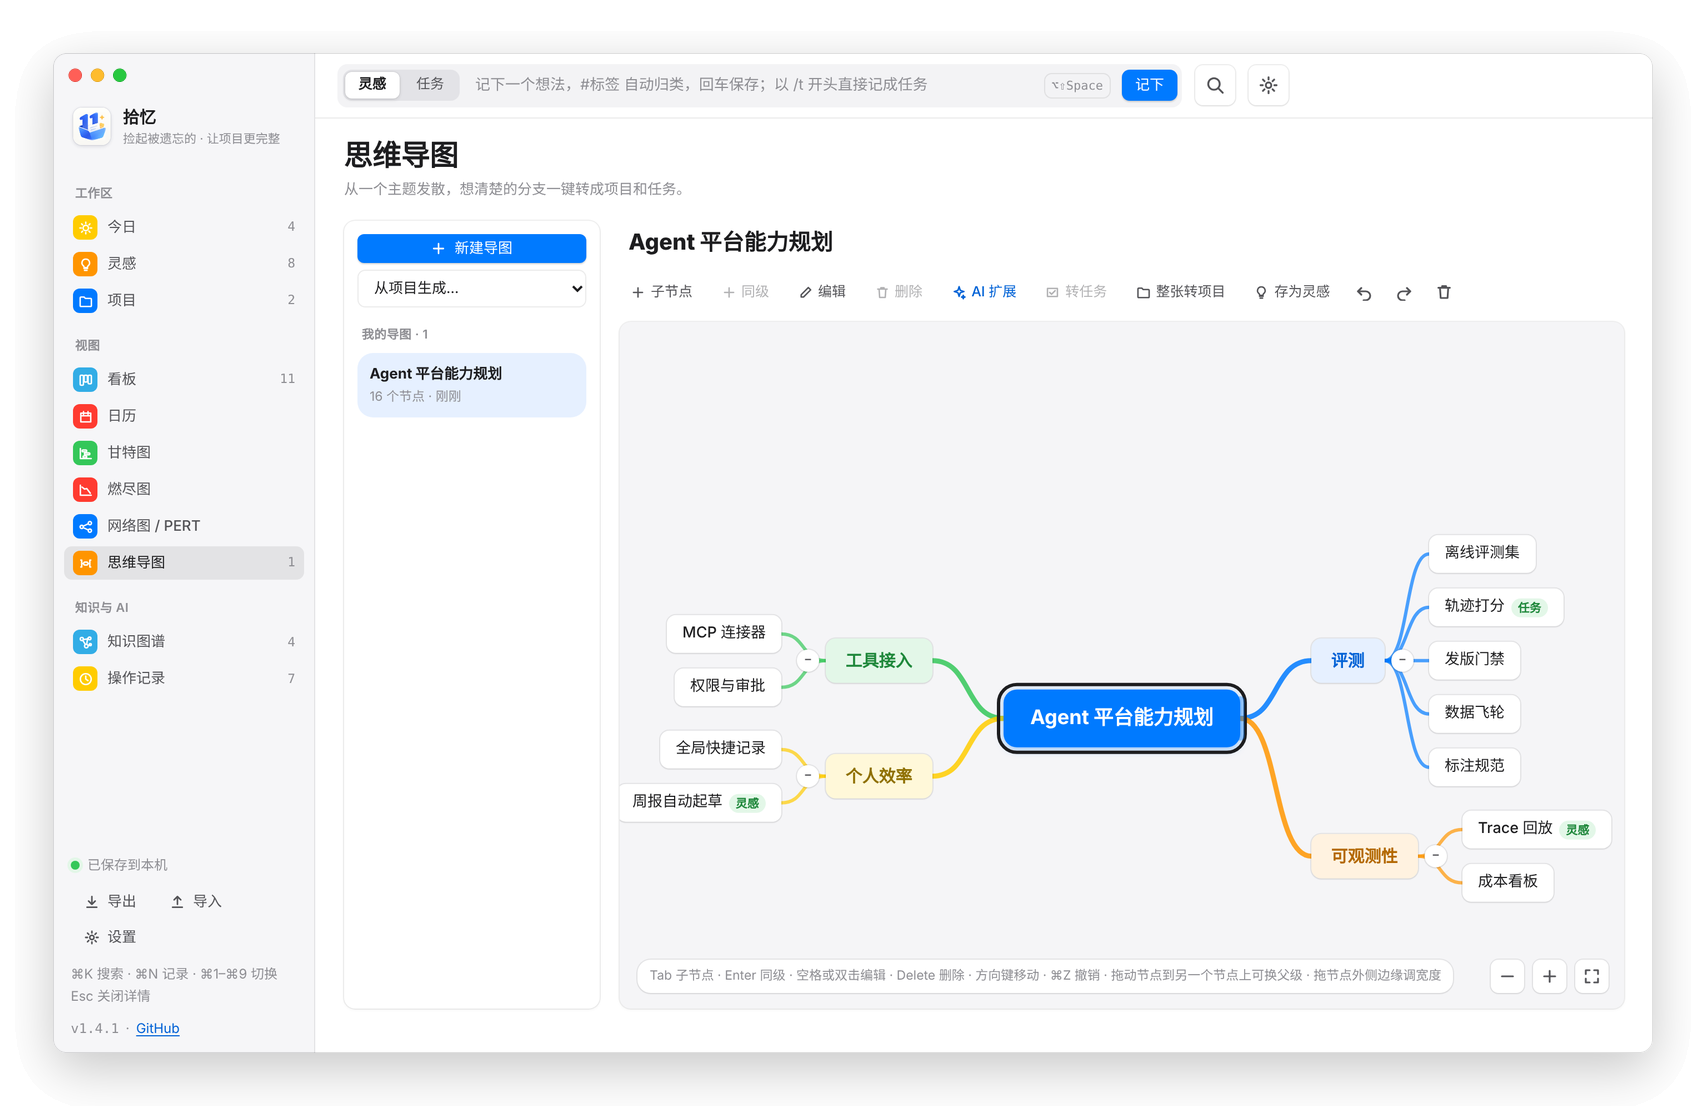
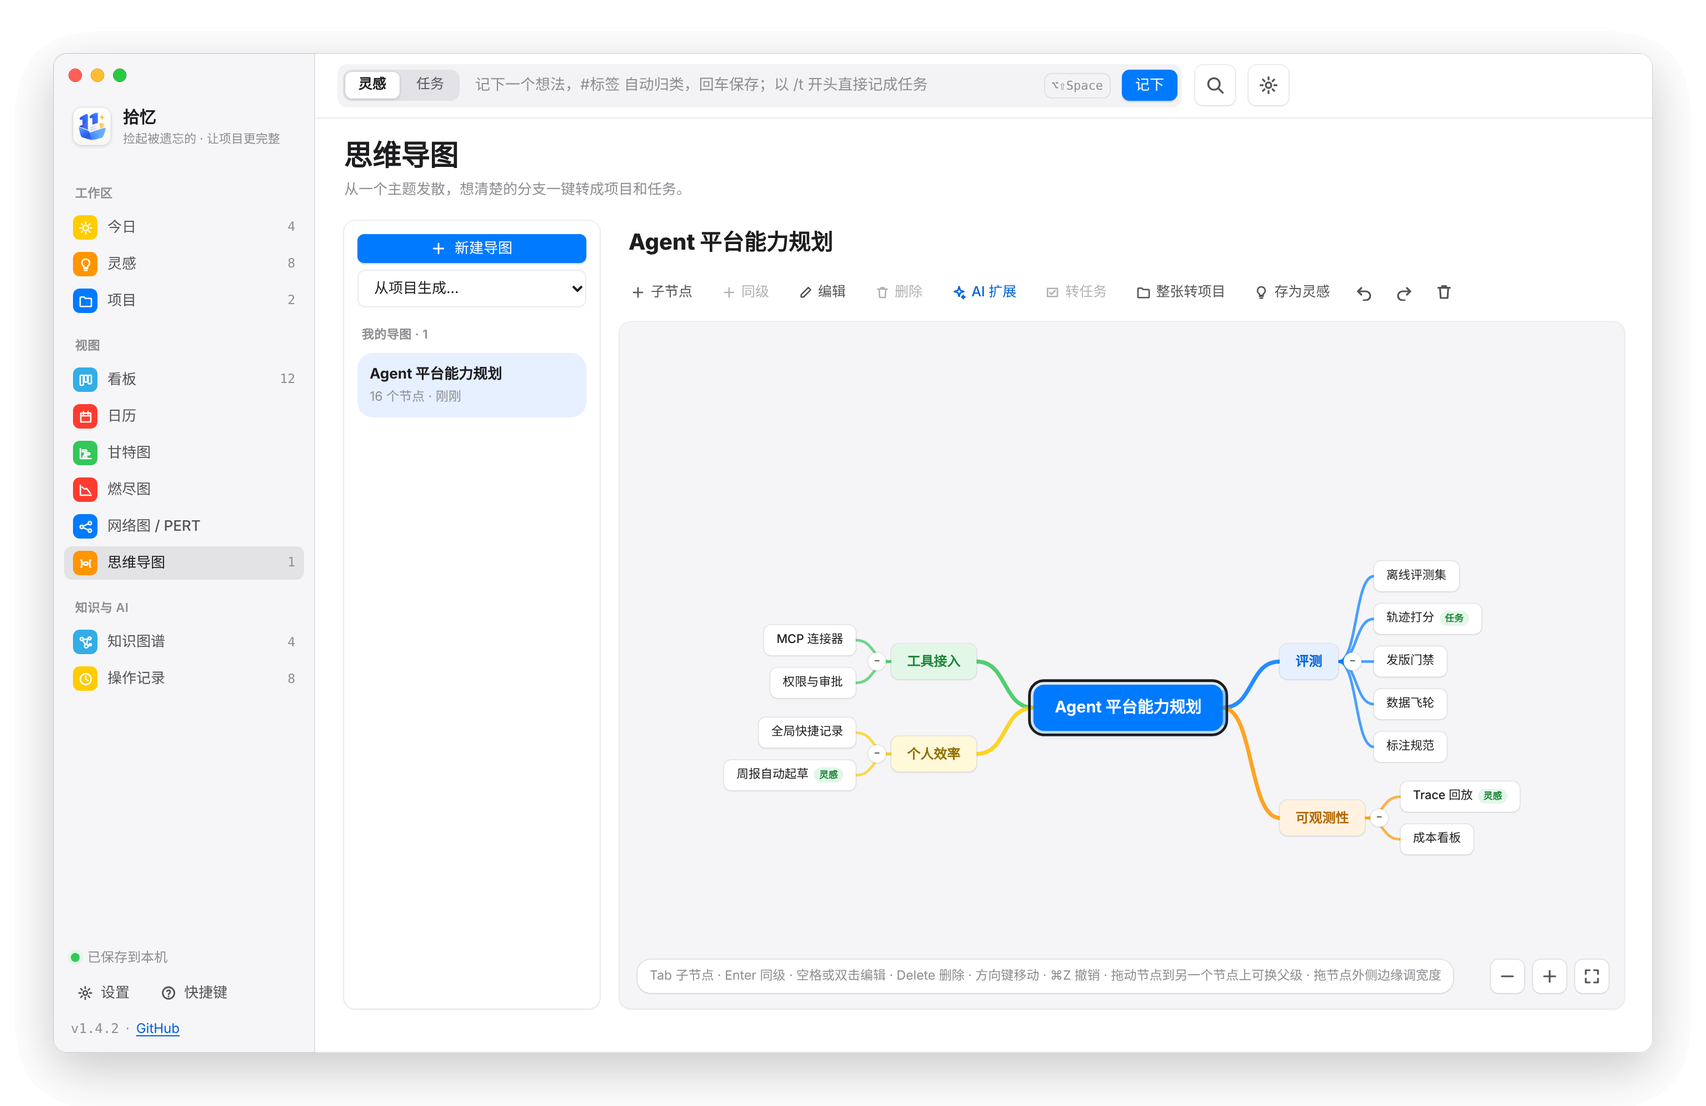
版本 1.4.2：更新说明、README（今日页、备份恢复、最近删除、⌘Z）、截图；端到端测试覆盖本次全部改动
Claude-Session: https://claude.ai/code/session_017SpTzLsBopcBvD6Ewedaaq

Changed region(s): [[0.3728, 0.5533, 0.7456, 0.7378], [0.7456, 0.4919, 0.932, 0.7993], [0.0311, 0.7685, 0.1553, 0.9222]]

diff --git a/scripts/e2e/test_app.py b/scripts/e2e/test_app.py
@@ -157,7 +157,7 @@ try:
         pg.evaluate("SY.noteError('e2e 测试报错', 'test')")
         pg.click('#s-about [data-act="diag-open"]'); pg.wait_for_selector("#diag-text")
         diag = pg.inner_text("#diag-text")
-        check("v1.4.1" in diag and "任务 " in diag and "e2e 测试报错" in diag, "diagnostics list version, counts and recent errors")
+        check("v1.4.2" in diag and "任务 " in diag and "e2e 测试报错" in diag, "diagnostics list version, counts and recent errors")
         check("sk-test" not in diag and "失败轨迹回放面板" not in diag, "diagnostics hold no key and no note contents")
         pg.click('#m-foot [data-act="feedback"]'); pg.wait_for_selector("#fb-title")
         pg.fill("#fb-title", "导图节点拖不动"); pg.fill("#fb-body", "拖到另一个分支后弹回原位")
@@ -201,6 +201,59 @@ try:
         pg.keyboard.press("Escape")
         pg.evaluate("(() => { for (let i = 0; i < 3000; i++) SY.S.data.tasks.delete('perf' + i); SY.S.rev++; SY.closeInsp(); })()")
 
+        print("today: carried over, next 7 days, reschedule")
+        subprocess.run([str(CLI), "apply", "-", "--as", "claude", "--compact"], env=env, capture_output=True, text=True,
+                       input=json.dumps({"ops": [{"op": "task.create", "ref": "c", "title": "昨天计划没做完的事", "today": "-1d"},
+                                                 {"op": "task.create", "title": "后天到期的事", "due": "+2d"}]}))
+        pg.wait_for_timeout(1800)
+        pg.evaluate("SY.closeModal(); SY.closeInsp(); SY.setView('today')"); pg.wait_for_timeout(400)
+        check("昨天计划没做完的事" in pg.inner_text(".carried"), "a task planned yesterday and not done shows under 之前计划")
+        check("后天到期的事" in pg.inner_text(".upcoming"), "a task due in two days shows under 接下来 7 天")
+        pg.click('[data-act="carry-all"]'); pg.wait_for_timeout(800)
+        check(cli("get", "昨天计划没做完的事")["item"].get("today_date") == pg.evaluate("SY.TODAY()") and pg.locator(".carried").count() == 0, "全部放进今天 plans them for today")
+        over = pg.evaluate("[...SY.S.data.tasks.values()].find(t => t.status !== 'done' && t.due && t.due < SY.TODAY())")
+        pg.hover(f'.trow[data-open="tasks:{over["id"]}"]')
+        pg.click(f'.trow[data-open="tasks:{over["id"]}"] [data-act="resched"][data-v="tomorrow"]'); pg.wait_for_timeout(800)
+        check(cli("get", over["id"])["item"]["due_date"] == pg.evaluate("SY.addDays(SY.TODAY(), 1)"), "an overdue task moves to tomorrow in one click")
+
+        print("done tasks, global undo")
+        pg.evaluate("SY.setView('kanban')"); pg.wait_for_timeout(400)
+        done_text = pg.inner_text('.kb-col[data-col="done"]')
+        check("逾期" not in done_text and "完成于" in done_text, "finished tasks say when they were done, not 逾期")
+        pg.evaluate("SY.setView('today')"); pg.wait_for_timeout(300)
+        pg.click('.trow[data-open="tasks:task_s-l2"] [data-act="toggle-done"]'); pg.wait_for_timeout(700)
+        pg.evaluate("document.activeElement && document.activeElement.blur()")
+        pg.keyboard.press("Control+z"); pg.wait_for_timeout(1000)
+        check(cli("get", "task_s-l2")["item"]["status"] == "todo", "⌘Z undoes your last change")
+        pg.keyboard.press("Control+Shift+z"); pg.wait_for_timeout(1000)
+        check(cli("get", "task_s-l2")["item"]["status"] == "done", "⇧⌘Z redoes it")
+
+        print("recently deleted, restore from backup")
+        pg.evaluate("SY.invoke('e2e_backup_daily')")
+        pg.evaluate("SY.del('projects', 'proj_s-read')"); pg.wait_for_timeout(800)
+        check(cli("get", "proj_s-read").get("ok") is False or cli("get", "proj_s-read")["item"].get("deleted_at"), "deleting a project")
+        pg.evaluate("SY.setView('log')"); pg.wait_for_timeout(300)
+        pg.click('[data-act="op-filter"][data-v="trash"]'); pg.wait_for_timeout(900)
+        row = pg.locator('.trash-row:has-text("Q4 读书计划")')
+        check(row.count() == 1 and "及其 1 个任务" in row.inner_text(), "最近删除 lists the project with its task")
+        row.locator('[data-act="trash-restore"]').click(); pg.wait_for_timeout(1000)
+        check(pg.evaluate("SY.S.data.projects.has('proj_s-read') && SY.S.data.tasks.has('task_s-c1')"), "restoring brings back the project and its task")
+        pg.click('[data-act="op-filter"][data-v="all"]'); pg.wait_for_timeout(300)
+        n_before = pg.evaluate("SY.S.data.ideas.size")
+        pg.fill("#cap-text", "备份之后才记下的灵感"); pg.press("#cap-text", "Enter"); pg.wait_for_timeout(900)
+        pg.evaluate("SY.acts['settings']()"); pg.wait_for_timeout(500)
+        pg.click('[data-act="backups"]'); pg.wait_for_selector(".bk-row"); pg.wait_for_timeout(200)
+        pg.locator('.bk-row:has(.pill:text("每日备份")) [data-act="backup-restore"]').first.click(); pg.wait_for_timeout(300)
+        pg.click('[data-act="ask-yes"]'); pg.wait_for_timeout(1500)
+        check(cli("search", "备份之后才记下的灵感")["total"] == 0, "restoring the backup puts the data back to that day")
+        check(any(b["kind"] == "restore" for b in pg.evaluate("SY.invoke('list_backups')")), "the data from before the restore is kept as a backup")
+        pg.click('#toast [data-act="toast-action"]'); pg.wait_for_timeout(1500)
+        check(cli("search", "备份之后才记下的灵感")["total"] == 1 and pg.evaluate("SY.S.data.ideas.size") == n_before + 1, "撤销恢复 brings the newer data back")
+
+        print("ideas as rows")
+        pg.evaluate("SY.closeModal(); SY.S.ui.ideaFilter = 'all'; SY.setView('ideas')"); pg.wait_for_timeout(400)
+        check(pg.locator(".ilist .irow").count() > 5 and pg.locator(".ideas .idea").count() == 0, "ideas are listed one per row")
+
         print("calendar")
         pg.evaluate("SY.closeModal(); SY.S.ui.calMonth = SY.TODAY().slice(0, 7); SY.setView('calendar')")
         pg.wait_for_timeout(500)
@@ -215,6 +268,20 @@ try:
         doc = got.get("item") or got.get("doc") or got
         check(pg.evaluate("SY.TODAY()") in json.dumps(doc), "double-click on a day adds a task due that day (seen by the CLI)")
         pg.screenshot(path=str(SHOTS / "e2e-calendar.png"))
+
+        print("smallest window (1080×680)")
+        sm = b.new_page(viewport={"width": 1080, "height": 680})
+        sm.on("pageerror", lambda e: errors.append(str(e)))
+        sm.goto(f"http://127.0.0.1:{PORT}/"); sm.wait_for_function("SY.S.ready && SY.S.data.tasks.size > 0"); sm.wait_for_timeout(500)
+        foot = sm.locator('#side-foot [data-act="settings"]').bounding_box()
+        check(foot and foot["y"] + foot["height"] <= 680, "the sidebar's 设置 button is on screen")
+        sm.evaluate("SY.S.ui.calMonth = SY.TODAY().slice(0, 7); SY.setView('calendar')"); sm.wait_for_timeout(800)
+        gb = sm.evaluate("document.querySelector('.cal-grid').getBoundingClientRect().bottom")
+        check(gb <= 680, f"the whole month fits ({gb:.0f}px of 680)")
+        sm.evaluate("SY.setView('pert')"); sm.wait_for_timeout(800)
+        k = sm.evaluate("Math.min(...Object.values(SY.S.view.pert).map(st => st.k))")
+        check(k >= 0.69, f"the network view opens at a readable zoom ({k:.2f})")
+        sm.close()
         b.close()
 finally:
     server.terminate()

diff --git a/scripts/e2e/serve.py b/scripts/e2e/serve.py
@@ -76,10 +76,10 @@ def call(cmd, a):
         return {"ok": "今天要做 3 件，逾期 1 件"}
     if cmd == "diagnostics":
         st = call("core_query", {"q": {"q": "status"}}).get("ok", {})
-        return {"ok": {"version": "1.4.1", "os": "macos", "arch": "aarch64", "osVersion": "15.1", "counts": st.get("counts", {}), "permission": st.get("agent_permission"),
+        return {"ok": {"version": "1.4.2", "os": "macos", "arch": "aarch64", "osVersion": "15.1", "counts": st.get("counts", {}), "permission": st.get("agent_permission"),
                        "dbBytes": 1_350_000, "dbError": None, "lastBackup": "2026-10-25", "provider": FAKE["provider"], "hasKey": True, "format": "anthropic",
                        "model": "deepseek-flash", "quickModel": "deepseek-flash", "cli": True, "skill": True, "skillCurrent": True, "autoUpdate": True, "prefs": PREFS,
-                       "log": ["2026-10-25T09:00:01+08:00 启动 v1.4.1（macos/aarch64）", "2026-10-25T10:12:40+08:00 AI 调用失败（deepseek）：HTTP 401：invalid api key"]}}
+                       "log": ["2026-10-25T09:00:01+08:00 启动 v1.4.2（macos/aarch64）", "2026-10-25T10:12:40+08:00 AI 调用失败（deepseek）：HTTP 401：invalid api key"]}}
     if cmd == "open_feedback":
         FAKE["feedback"] = a; return {"ok": None}
     if cmd == "e2e_state":
@@ -88,16 +88,16 @@ def call(cmd, a):
         return {"ok": "你好"}
     if cmd == "app_info":
         import os
-        return {"ok": {"version": "1.4.1", "repo": "https://github.com/LJS1124/shiyi-desktop", "data_path": args.db, "backups": str(pathlib.Path(args.db).parent / "backups"), "os": "macos", "auto_update": True}}
+        return {"ok": {"version": "1.4.2", "repo": "https://github.com/LJS1124/shiyi-desktop", "data_path": args.db, "backups": str(pathlib.Path(args.db).parent / "backups"), "os": "macos", "auto_update": True}}
     if cmd == "check_update":
         # pretend a newer release exists unless SHIYI_FAKE_UPDATE=none
         import os
         if os.environ.get("SHIYI_FAKE_UPDATE") == "none":
-            return {"ok": {"available": False, "current": "1.4.1", "version": "1.4.1", "notes": "", "page": "https://github.com/LJS1124/shiyi-desktop/releases/tag/v1.1.1"}}
+            return {"ok": {"available": False, "current": "1.4.2", "version": "1.4.2", "notes": "", "page": "https://github.com/LJS1124/shiyi-desktop/releases/tag/v1.1.1"}}
         notes = (ROOT / "docs/releases/v1.1.1.md").read_text(encoding="utf-8")
-        return {"ok": {"available": True, "current": "1.4.1", "version": "1.4.1", "tag": "v1.4.1", "notes": notes, "published_at": "2026-10-20T08:00:00Z",
-                       "page": "https://github.com/LJS1124/shiyi-desktop/releases/tag/v1.4.1", "asset_name": "Shiyi_1.4.1_universal.dmg",
-                       "asset_url": "https://github.com/LJS1124/shiyi-desktop/releases/download/v1.4.1/Shiyi_1.4.1_universal.dmg"}}
+        return {"ok": {"available": True, "current": "1.4.2", "version": "1.4.2", "tag": "v1.4.2", "notes": notes, "published_at": "2026-10-20T08:00:00Z",
+                       "page": "https://github.com/LJS1124/shiyi-desktop/releases/tag/v1.4.2", "asset_name": "Shiyi_1.4.2_universal.dmg",
+                       "asset_url": "https://github.com/LJS1124/shiyi-desktop/releases/download/v1.4.2/Shiyi_1.4.2_universal.dmg"}}
     if cmd == "update_install":
         return {"err": "检查更新失败：模拟环境不能安装"}
     if cmd == "open_project_url":

diff --git a/scripts/screenshots.py b/scripts/screenshots.py
@@ -68,6 +68,7 @@ try:
             {"op": "idea.create", "ref": "chart", "text": "评测报告自动生成趋势图，一眼看出哪类工单在退步", "tags": ["agent"]},
             {"op": "idea.create", "ref": "ddia", "text": "读 DDIA 第 5 章「复制」，写一篇笔记", "tags": ["读书"]},
             {"op": "idea.create", "text": "给家里 NAS 做一份异地备份", "tags": ["生活"]},
+            {"op": "task.create", "title": "回复房东关于续租的邮件", "today": "-1d"},
             {"op": "link.create", "source": "$regress", "target": "proj_s-eval", "relation": "supports", "note": "回归集就是评测集的一部分"},
             {"op": "link.create", "source": "$chart", "target": "task_s-a7", "relation": "supports", "note": "报告模板里正好需要趋势图"},
             {"op": "link.create", "source": "$ddia", "target": "proj_s-read", "relation": "part_of", "note": "可以作为 Q4 的第一本"},

diff --git a/README.md b/README.md
@@ -11,7 +11,7 @@
   <img src="https://img.shields.io/badge/macOS-11%2B-111?logo=apple" alt="macOS 11+">
   <img src="https://img.shields.io/badge/Windows-10%2B-0078D4?logo=windows" alt="Windows 10+">
   <img src="https://img.shields.io/badge/Tauri-2-24C8DB?logo=tauri&logoColor=white" alt="Tauri 2">
-  <img src="https://img.shields.io/badge/version-1.4.1-0A84FF" alt="1.4.1">
+  <img src="https://img.shields.io/badge/version-1.4.2-0A84FF" alt="1.4.2">
 </p>
 
 拾忆是一个 macOS 和 Windows 桌面应用，管理随手冒出来的想法、工作和生活里的项目，并把它们连成一张知识图谱。
@@ -24,11 +24,11 @@
 
 - **随手记，不打断手头的事**：在任何应用里按 <kbd>⌥</kbd><kbd>⇧</kbd><kbd>Space</kbd>（Windows 上是 <kbd>Ctrl</kbd><kbd>Alt</kbd><kbd>Space</kbd>）唤出记录框；`#标签` 自动归类，`[[标题]]` 双链到别的条目。记下的时候会提示「可能和哪条相关」，这一步只比较文字，不调用 AI。
 - **<kbd>⌘</kbd><kbd>K</kbd> 找到一切**：一个框里搜灵感、任务、项目、导图节点和标签，也能直接跳到某个视图、新建项目、切换深浅色；搜不到就回车记下来。
-- **到点提醒，不漏事**：每天早上一条系统通知，告诉你今天要做几件、有没有逾期。Windows 上关闭窗口会缩到托盘继续运行，也可以开机自动启动。
+- **到点提醒，不漏事**：每天早上一条系统通知，告诉你今天要做几件、有没有逾期。之前放进「今日」但没做完的任务不会悄悄消失，逾期的点一下就能改到今天、明天或下周一，接下来 7 天要到期的也一眼看得到。Windows 上关闭窗口会缩到托盘继续运行，也可以开机自动启动。
 - **一个项目，六种视图**：看板、日历、甘特图、燃尽图、网络图（PERT）、思维导图，用的是同一份任务数据。日历里多天的任务横跨显示，拖动改日期，双击某一天直接加任务，没排期的任务从侧栏拖上去就排好了。依赖、三点估算和关键路径在各个视图之间是连通的。
 - **知识图谱**：手动关联、AI 建议、`[[双链]]`、相同标签、项目归属和依赖，都画在一张图上。可以只看某一条周围的局部关系，也可以拖线建立关联。
 - **AI 原生，但由你掌控**：外部 AI 助手通过命令行读写；内置的 AI 功能只在你点按钮时运行，结果先预览、改完再写入。AI 建的关联必须等你确认才算数，每一批修改都可以撤销。
-- **本地优先**：数据只在本机，每天自动备份；不联网也能用（只有 AI 功能需要联网）。
+- **本地优先，删了也找得回**：数据只在本机，每天自动备份，在设置里就能恢复到任意一天；删掉的东西在「最近删除」里一键恢复，<kbd>⌘</kbd><kbd>Z</kbd> 随时撤销刚才的修改。不联网也能用（只有 AI 功能需要联网）。
 - **macOS 和 Windows，一键更新**：有新版本时侧栏会提示，点「立即更新」就自动下载、核对签名、安装并重启；更新前先完整备份数据库。
 
 ## 看看它
@@ -101,7 +101,7 @@
 命令行的输入和输出都是 JSON。出错时会返回 `code`、`message`，以及告诉 AI 怎么改的 `hint`：
 
 ```bash
-shiyi today                                         # 今天要做的、逾期的、收件箱、进行中的项目
+shiyi today                                         # 今天要做的、逾期的、之前计划没做完的、收件箱、进行中的项目
 shiyi list tasks --status todo,doing --project 网站改版
 shiyi get <id 或标题>                               # 详情 + 反向链接 + 依赖
 shiyi search 暗色 模式
@@ -182,6 +182,7 @@ Windows 上 <kbd>⌘</kbd> 换成 <kbd>Ctrl</kbd>，全局唤出改为 <kbd>Ctrl
 | --- | --- |
 | <kbd>⌥</kbd><kbd>⇧</kbd><kbd>Space</kbd> | 在任何应用里唤出拾忆，并把光标放进记录框。关闭窗口后拾忆仍在后台运行：macOS 上 <kbd>⌘</kbd><kbd>Q</kbd> 才是真正退出，Windows 上它在托盘里，右键菜单可以退出 |
 | <kbd>⌘</kbd><kbd>K</kbd> | 搜索和命令 |
+| <kbd>⌘</kbd><kbd>Z</kbd> / <kbd>⇧</kbd><kbd>⌘</kbd><kbd>Z</kbd> | 撤销自己刚才的修改 / 重做（输入框里仍是撤销文字；AI 的修改到操作记录里撤销） |
 | <kbd>⌘</kbd><kbd>N</kbd> 或 <kbd>/</kbd> | 聚焦记录框；以 `/t ` 开头直接记成任务 |
 | <kbd>⌘</kbd><kbd>1</kbd>–<kbd>9</kbd> | 切换视图 |
 | `[[` | 在记录框和备注里弹出条目列表，选中即插入双链 |
@@ -201,6 +202,8 @@ Windows 上 <kbd>⌘</kbd> 换成 <kbd>Ctrl</kbd>，全局唤出改为 <kbd>Ctrl
 
 - **位置**：macOS 是 `~/Library/Application Support/app.shiyi.desktop/shiyi.db`，Windows 是 `%APPDATA%\app.shiyi.desktop\shiyi.db`（SQLite），可以用环境变量 `SHIYI_DB` 改到别处。
 - **备份**：每天自动备份一份到 `backups/shiyi-日期.db`，保留最近 14 天；每次升级后第一次打开另存一份 `backups/upgrade-…db`，保留最近 5 次；操作记录保留 180 天。
+- **从备份恢复**：「设置 → 数据 → 从备份恢复…」列出每份备份的时间和里面有多少条内容，选一份即可恢复。恢复前会先把当前数据另存为 `backups/before-restore-…db`（保留最近 5 份），所以恢复本身也能撤销。命令行 `shiyi backups` 可以查看备份列表。
+- **最近删除**：「操作记录 → 最近删除」列出删掉、还没恢复的灵感、项目、任务和导图，一键恢复；删除项目时一起删掉的任务会跟着回来。
 - **导出 / 导入**：「设置 → 数据」可以导出、导入 JSON。网页预览导出的备份和旧版备份都能导入，导入本身也能撤销。
 - **从旧版升级**：升级时会自动把旧的 `data.json` 导入数据库，原文件改名为 `data.json.imported`。
 - **API Key**：存在同目录的 `settings.json` 里，不会离开本机（macOS 上文件权限是 600）。

diff --git a/docs/releases/v1.4.2.md b/docs/releases/v1.4.2.md
@@ -1,0 +1,29 @@
+拾忆 1.4.2：今日页不再漏事，删了、改错了都能找回来，小窗口下也看得全。
+
+已装 1.2.x 及以上：设置 → 关于 → 检查更新 → 立即更新。
+
+## 今日页
+
+- **之前计划、还没做完**：放进「今日」但当天没做完的任务，以前第二天会从今日里消失；现在会出现在今日页最上面。可以点 ☀ 逐条放进今天，也可以「全部放进今天」或「不再提醒」。每天早上的摘要通知也会带上它们。
+- **接下来 7 天**：今天的任务下面，按「明天、周五……」列出这几天要到期的任务，可以折叠。
+- **逾期一键改期**：逾期任务右侧有「今天 / 明天 / 下周一」，点一下就改好，有开始日期的会整段顺移。
+
+## 找得回
+
+- **从备份恢复**：设置 → 数据 → 从备份恢复…，列出每份自动备份的时间和里面的条数，选一份就恢复。恢复前会先把现在的数据另存一份，恢复后点「撤销恢复」或在列表里选那份就能换回来。
+- **最近删除**：操作记录 → 最近删除，删掉的灵感、项目、任务和导图一键恢复；删项目时一起删掉的任务会跟着回来。
+- **⌘Z 撤销、⇧⌘Z 重做**（Windows 上是 Ctrl+Z、Ctrl+Shift+Z）：在任何视图里撤销自己刚才的修改。输入框里照旧是撤销文字，AI 的修改不会被 ⌘Z 撤掉。
+
+## 显示
+
+- 已完成的任务不再显示「逾期 N 天」，改为「完成于 10/22」。
+- 日历按窗口高度放下整个月，打开时能看到本周；格子放不下的任务显示「+N」。
+- 灵感页改成一行一条，宽屏不再右边大片空着；窗口窄时操作按钮只显示图标。
+- 甘特图里从左边以外开始的任务条，标题贴着可见区域显示，不再被切掉一半。
+- 小窗口：侧栏底部精简（导出、导入在设置里，快捷键点「快捷键」查看）；网络图、知识图谱打开时不会缩得太小看不清；思维导图放得下就整张显示，放不下就以中心主题居中。
+- 窗口大小和位置会记住，下次打开还是上次的样子；上次的位置在已经拔掉的显示器上时，会回到主屏幕。
+
+## 给 AI 助手
+
+- `shiyi today` 多了 `carried_over`：之前计划、还没做完的任务。技能说明已更新，AI 会先问你要不要放进今天。
+- 新命令 `shiyi backups`：查看自动备份列表（恢复只能在应用里做）。
